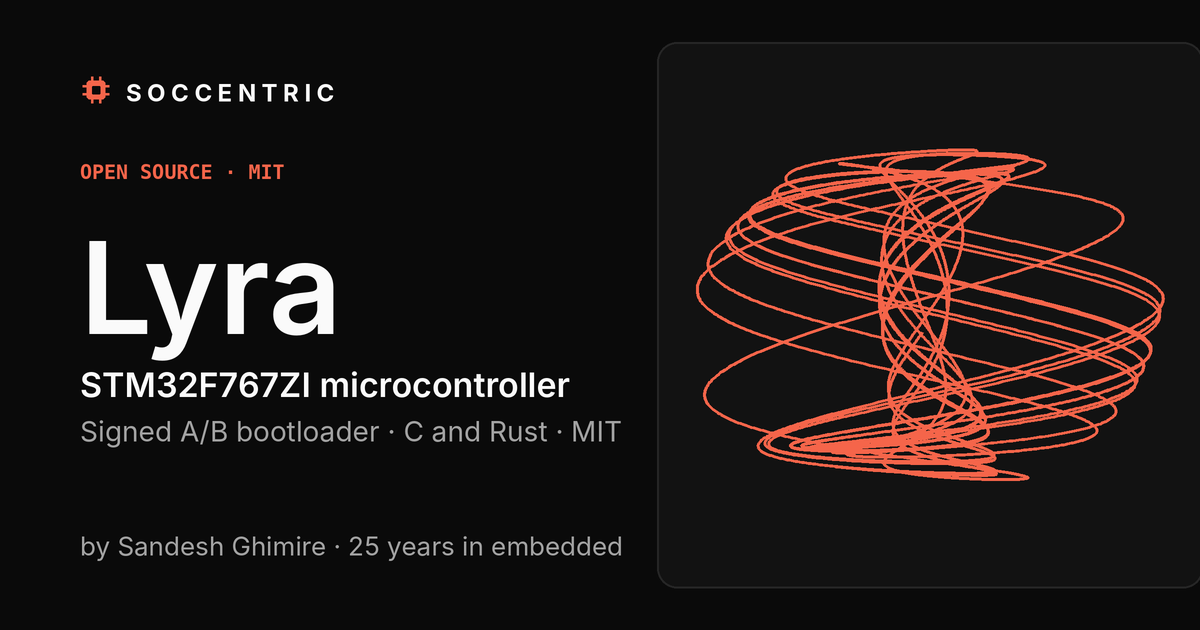
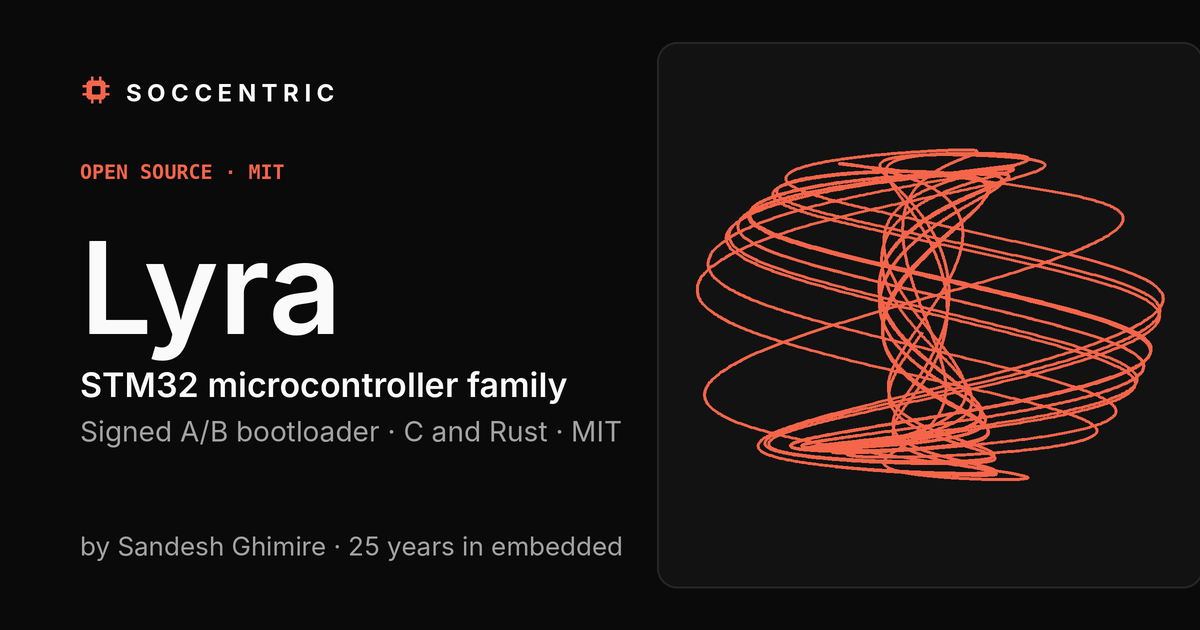
Lyra: STM32 family, STM32F767ZI as reference board

Changed region(s): [[0.1542, 0.573, 0.4933, 0.6333]]

diff --git a/index.html b/index.html
@@ -1,30 +1,30 @@
 <!doctype html>
 <html lang="en"><head><meta charset="utf-8"><meta name="viewport" content="width=device-width, initial-scale=1">
-<title>SoCcentric Lyra · Open-source platform for STM32F767ZI</title><meta name="description" content="Lyra: open-source firmware building blocks for the STM32F767ZI microcontroller, by Sandesh Ghimire. Use them free, or get help taking your product to completion."><meta name="author" content="Sandesh Ghimire">
-<link rel="canonical" href="https://soccentric-lyra.github.io/"><meta property="og:title" content="SoCcentric Lyra · Open-source platform for STM32F767ZI"><meta property="og:description" content="Lyra: open-source firmware building blocks for the STM32F767ZI microcontroller, by Sandesh Ghimire. Use them free, or get help taking your product to completion.">
+<title>SoCcentric Lyra · Open-source platform for STM32 microcontrollers</title><meta name="description" content="Lyra: open-source firmware building blocks for STM32 microcontrollers, by Sandesh Ghimire. Free and MIT licensed."><meta name="author" content="Sandesh Ghimire">
+<link rel="canonical" href="https://soccentric-lyra.github.io/"><meta property="og:title" content="SoCcentric Lyra · Open-source platform for STM32 microcontrollers"><meta property="og:description" content="Lyra: open-source firmware building blocks for STM32 microcontrollers, by Sandesh Ghimire. Free and MIT licensed.">
 <meta property="og:type" content="website"><meta property="og:url" content="https://soccentric-lyra.github.io/"><meta property="og:image" content="https://soccentric-lyra.github.io/assets/og.png"><meta property="og:image:width" content="1200"><meta property="og:image:height" content="630"><meta name="twitter:card" content="summary_large_image"><meta name="twitter:image" content="https://soccentric-lyra.github.io/assets/og.png">
 <meta name="theme-color" content="#0a0a0a"><link rel="preconnect" href="https://api.fontshare.com" crossorigin><link rel="stylesheet" href="https://api.fontshare.com/v2/css?f[]=switzer@400,500,600,700&amp;f[]=sentient@400i&amp;display=swap">
 <script>try{var t=localStorage.getItem("theme");if(t==="dark"||t==="light")document.documentElement.dataset.theme=t}catch(e){}</script><link rel="icon" href="assets/chip.svg" type="image/svg+xml"><link rel="stylesheet" href="style.css?v=4c3048c742"><script type="importmap">{"imports":{"three":"https://cdn.jsdelivr.net/npm/three@0.160.0/build/three.module.min.js","three/addons/":"https://cdn.jsdelivr.net/npm/three@0.160.0/examples/jsm/"}}</script><script type="module" src="hero.js?v=f74a1cc3c1"></script></head>
 <body><a class="skip" href="#main">Skip to content</a><header><div class="wrap"><a class="brand" href="https://soccentric.github.io/" aria-label="SoCcentric home"><svg class="mark" viewBox="0 0 24 24" aria-hidden="true"><path class="pins" d="M9 2v3M15 2v3M9 19v3M15 19v3M2 9h3M2 15h3M19 9h3M19 15h3"/><rect class="pkg" x="5" y="5" width="14" height="14" rx="2.5"/><rect class="die" x="9" y="9" width="6" height="6" rx="1"/></svg><span>SoCcentric</span></a><nav aria-label="Main"><span class="links" id="navlinks"><a href="#why">Why</a><a href="#architecture">Architecture</a><a href="#repos">Repositories</a><a href="#start">Get started</a><a href="#features">Features</a><a href="#contribute">Contribute</a></span><a class="hire" href="#help" aria-label="Work with us"><svg class="ic" viewBox="0 0 24 24" aria-hidden="true"><circle cx="9" cy="8" r="3.2"/><circle cx="17" cy="9" r="2.6"/><path d="M3 19c0-3.3 2.7-5.5 6-5.5s6 2.2 6 5.5"/><path d="M15.5 14c2.9-.3 5.5 1.5 5.5 4.5"/></svg><span>Work with us</span></a><button class="theme" type="button" aria-label="Switch between dark and light theme" title="Dark / light theme"><svg class="ic moon" viewBox="0 0 24 24" aria-hidden="true"><path d="M20 14.5A8 8 0 0 1 9.5 4a8 8 0 1 0 10.5 10.5z"/></svg><svg class="ic sun" viewBox="0 0 24 24" aria-hidden="true"><circle cx="12" cy="12" r="4.2"/><path d="M12 2.5v2.2M12 19.3v2.2M2.5 12h2.2M19.3 12h2.2M5.3 5.3l1.6 1.6M17.1 17.1l1.6 1.6M5.3 18.7l1.6-1.6M17.1 6.9l1.6-1.6"/></svg></button><button class="menu" type="button" aria-label="Open menu" aria-expanded="false" aria-controls="navlinks"><svg class="ic" viewBox="0 0 24 24" aria-hidden="true"><path d="M4 7h16M4 12h16M4 17h16"/></svg></button></nav></div></header>
 <main id="main">
-<div class="hero"><canvas class="hero3d" data-anim="lyra" aria-hidden="true" style="position:absolute;right:0;top:50%;width:640px;height:640px;transform:translateY(-50%);opacity:0;pointer-events:none"></canvas><div class="wrap"><div class="eyebrow">Open-source platform · STM32F767ZI</div><h1>Lyra</h1>
-<p class="lead">Firmware for the STM32F767ZI microcontroller, ready on <em>day one</em>: a signed A/B bootloader, five demo applications in C and Rust, and factory tooling. Free and MIT licensed.</p>
-<div class="chips"><span>MIT licensed</span><span>STM32F767ZI</span><span>10 public repositories</span><span>Bare-metal · FreeRTOS · Zephyr</span></div>
+<div class="hero"><canvas class="hero3d" data-anim="lyra" aria-hidden="true" style="position:absolute;right:0;top:50%;width:640px;height:640px;transform:translateY(-50%);opacity:0;pointer-events:none"></canvas><div class="wrap"><div class="eyebrow">Open-source platform · STM32 family</div><h1>Lyra</h1>
+<p class="lead">Firmware for STM32 microcontrollers, ready on <em>day one</em>: a signed A/B bootloader, five demo applications in C and Rust, and factory tooling. Free and MIT licensed.</p>
+<div class="chips"><span>MIT licensed</span><span>STM32 family</span><span>Reference: STM32F767ZI</span><span>10 public repositories</span><span>Bare-metal · FreeRTOS · Zephyr</span></div>
 <div class="btns"><a class="btn primary" href="#start">Get started</a><a class="btn" href="https://github.com/soccentric-lyra/bootloader">bootloader</a><a class="btn" href="https://github.com/soccentric-lyra">All repositories</a></div>
 <p class="byline">by Sandesh Ghimire · Embedded software and firmware engineer · 25 years</p></div></div>
 <section id="why" class="why"><div class="wrap"><div class="why-grid"><div>
 <h2>Why Lyra <em>exists</em></h2>
 <p>After 25 years in embedded software, the last 10 as a consultant, I kept rebuilding the same foundations on every project: bootloader, secure updates, drivers, RTOS setup and factory tooling. Weeks of work before the real product could even start.</p>
-<p>Lyra is those foundations for the STM32F767ZI microcontroller, built once and reused: a secure bootloader with rollback, working applications on three runtimes and the tools to flash and test boards on the line. It shares its architecture with the other 9 platforms, so what you learn here carries to every other board.</p>
+<p>Lyra is those foundations for STM32 microcontrollers, built once and reused: a secure bootloader with rollback, working applications on three runtimes and the tools to flash and test boards on the line. It shares its architecture with the other 9 platforms, so what you learn here carries to every other board.</p>
 <a class="more" href="https://soccentric.github.io/#story">Read the full story →</a></div>
 <ul class="facts"><li><b>Weeks → days</b><span>to a working, configured base on your board</span></li>
 <li><b>One architecture</b><span>the same repositories and commands on all 10 platforms</span></li>
 <li><b>Free and MIT licensed</b><span>use it, fork it, ship it in your product</span></li></ul></div></div></section>
 <section id="architecture"><div class="wrap"><h2>How it fits <em>together</em></h2><p class="sub">From the bench to the flash map. Hover a box to follow its path; click it to jump to its card.</p>
-<figure class="arch" id="arch"><svg class="arch-svg" viewBox="0 0 1000 520" role="img" aria-labelledby="arch-t arch-d"><title id="arch-t">Lyra architecture</title><desc id="arch-d">Host tools sign and send images over UART to the bootloader, which verifies them and boots one of two application slots, rolling back after failed trial boots.</desc><defs><marker id="ah" viewBox="0 0 10 10" refX="9" refY="5" markerWidth="7" markerHeight="7" orient="auto-start-reverse"><path d="M0 0L10 5L0 10z" class="ah"/></marker><marker id="ah-on" viewBox="0 0 10 10" refX="9" refY="5" markerWidth="7" markerHeight="7" orient="auto-start-reverse"><path d="M0 0L10 5L0 10z" class="ah-on"/></marker></defs><text class="zone" x="40" y="40">HOST AND FACTORY BENCH</text><rect class="device" x="20" y="190" width="960" height="310" rx="6"/><text class="zone" x="40" y="222">STM32F767ZI · 2 MB FLASH</text><g class="edge-g" data-from="gui" data-to="boot"><line class="edge" x1="180" y1="134" x2="180" y2="248" marker-end="url(#ah)"/><text class="edge-t" x="188" y="191">SWD</text></g><g class="edge-g" data-from="tools" data-to="boot"><line class="edge" x1="820" y1="134" x2="300" y2="300" marker-end="url(#ah)"/><text class="edge-t" x="568" y="217">HWLINK / UART</text></g><g class="edge-g" data-from="station" data-to="slotA"><line class="edge" x1="500" y1="134" x2="485" y2="248" marker-end="url(#ah)"/><text class="edge-t" x="500" y="191">factory COM</text></g><g class="edge-g" data-from="boot" data-to="slotA"><line class="edge" x1="300" y1="300" x2="338" y2="300" marker-end="url(#ah)"/></g><g class="edge-g" data-from="boot" data-to="slotB"><line class="edge" x1="300" y1="420" x2="338" y2="420" marker-end="url(#ah)"/></g><g class="edge-g" data-from="slotA" data-to="apps"><line class="edge dash" x1="630" y1="300" x2="668" y2="300"/></g><g class="edge-g" data-from="slotB" data-to="rt"><line class="edge dash" x1="630" y1="420" x2="668" y2="420"/></g><g class="node" data-node="gui"><a href="#c-bootloader-gui"><rect class="box prod" x="40" y="60" width="280" height="74" rx="4"/><rect class="tag prod" x="56" y="80" width="8" height="8" rx="1"/><text class="bt" x="72" y="90">bootloader-gui</text><text class="bs" x="56" y="112">build, sign, flash over SWD</text></a></g><g class="node" data-node="station"><a href="#c-factory-station"><rect class="box fac" x="360" y="60" width="280" height="74" rx="4"/><rect class="tag fac" x="376" y="80" width="8" height="8" rx="1"/><text class="bt" x="392" y="90">factory-station</text><text class="bs" x="376" y="112">blank board → verified unit</text></a></g><g class="node" data-node="tools"><rect class="box prod" x="680" y="60" width="280" height="74" rx="4"/><rect class="tag prod" x="696" y="80" width="8" height="8" rx="1"/><text class="bt" x="712" y="90">mkimage · bootctl</text><text class="bs" x="696" y="112">sign image, update over UART</text></g><g class="node" data-node="boot"><a href="#c-bootloader"><rect class="box prod" x="50" y="250" width="250" height="220" rx="4"/><rect class="tag prod" x="66" y="270" width="8" height="8" rx="1"/><text class="bt" x="82" y="280">bootloader</text><text class="bs" x="66" y="302">~28 KB · ECDSA P-256</text><text class="bs" x="66" y="340">verify before erase</text><text class="bs" x="66" y="364">anti-rollback counter</text><text class="bs" x="66" y="388">trial boot + watchdog</text><text class="bs" x="66" y="412">rollback after 3 fails</text></a></g><g class="node" data-node="slotA"><rect class="box vv" x="340" y="250" width="290" height="100" rx="4"/><rect class="tag vv" x="356" y="270" width="8" height="8" rx="1"/><text class="bt" x="372" y="280">Slot A · 976 KB</text><text class="bs" x="356" y="302">app or factory firmware</text></g><g class="node" data-node="slotB"><rect class="box vv" x="340" y="370" width="290" height="100" rx="4"/><rect class="tag vv" x="356" y="390" width="8" height="8" rx="1"/><text class="bt" x="372" y="400">Slot B · 976 KB</text><text class="bs" x="356" y="422">update lands here</text></g><g class="node" data-node="apps"><a href="#c-app-c-freertos"><rect class="box vv" x="670" y="250" width="290" height="100" rx="4"/><rect class="tag vv" x="686" y="270" width="8" height="8" rx="1"/><text class="bt" x="702" y="280">5 demo applications</text><text class="bs" x="686" y="302">C and Rust</text></a></g><g class="node" data-node="rt"><a href="#c-app-rust-embassy"><rect class="box vv" x="670" y="370" width="290" height="100" rx="4"/><rect class="tag vv" x="686" y="390" width="8" height="8" rx="1"/><text class="bt" x="702" y="400">3 runtimes</text><text class="bs" x="686" y="422">bare-metal · FreeRTOS · Zephyr</text></a></g></svg></figure></div></section>
+<figure class="arch" id="arch"><svg class="arch-svg" viewBox="0 0 1000 520" role="img" aria-labelledby="arch-t arch-d"><title id="arch-t">Lyra architecture</title><desc id="arch-d">Host tools sign and send images over UART to the bootloader, which verifies them and boots one of two application slots, rolling back after failed trial boots.</desc><defs><marker id="ah" viewBox="0 0 10 10" refX="9" refY="5" markerWidth="7" markerHeight="7" orient="auto-start-reverse"><path d="M0 0L10 5L0 10z" class="ah"/></marker><marker id="ah-on" viewBox="0 0 10 10" refX="9" refY="5" markerWidth="7" markerHeight="7" orient="auto-start-reverse"><path d="M0 0L10 5L0 10z" class="ah-on"/></marker></defs><text class="zone" x="40" y="40">HOST AND FACTORY BENCH</text><rect class="device" x="20" y="190" width="960" height="310" rx="6"/><text class="zone" x="40" y="222">STM32 MCU · REFERENCE STM32F767ZI, 2 MB FLASH</text><g class="edge-g" data-from="gui" data-to="boot"><line class="edge" x1="180" y1="134" x2="180" y2="248" marker-end="url(#ah)"/><text class="edge-t" x="188" y="191">SWD</text></g><g class="edge-g" data-from="tools" data-to="boot"><line class="edge" x1="820" y1="134" x2="300" y2="300" marker-end="url(#ah)"/><text class="edge-t" x="568" y="217">HWLINK / UART</text></g><g class="edge-g" data-from="station" data-to="slotA"><line class="edge" x1="500" y1="134" x2="485" y2="248" marker-end="url(#ah)"/><text class="edge-t" x="500" y="191">factory COM</text></g><g class="edge-g" data-from="boot" data-to="slotA"><line class="edge" x1="300" y1="300" x2="338" y2="300" marker-end="url(#ah)"/></g><g class="edge-g" data-from="boot" data-to="slotB"><line class="edge" x1="300" y1="420" x2="338" y2="420" marker-end="url(#ah)"/></g><g class="edge-g" data-from="slotA" data-to="apps"><line class="edge dash" x1="630" y1="300" x2="668" y2="300"/></g><g class="edge-g" data-from="slotB" data-to="rt"><line class="edge dash" x1="630" y1="420" x2="668" y2="420"/></g><g class="node" data-node="gui"><a href="#c-bootloader-gui"><rect class="box prod" x="40" y="60" width="280" height="74" rx="4"/><rect class="tag prod" x="56" y="80" width="8" height="8" rx="1"/><text class="bt" x="72" y="90">bootloader-gui</text><text class="bs" x="56" y="112">build, sign, flash over SWD</text></a></g><g class="node" data-node="station"><a href="#c-factory-station"><rect class="box fac" x="360" y="60" width="280" height="74" rx="4"/><rect class="tag fac" x="376" y="80" width="8" height="8" rx="1"/><text class="bt" x="392" y="90">factory-station</text><text class="bs" x="376" y="112">blank board → verified unit</text></a></g><g class="node" data-node="tools"><rect class="box prod" x="680" y="60" width="280" height="74" rx="4"/><rect class="tag prod" x="696" y="80" width="8" height="8" rx="1"/><text class="bt" x="712" y="90">mkimage · bootctl</text><text class="bs" x="696" y="112">sign image, update over UART</text></g><g class="node" data-node="boot"><a href="#c-bootloader"><rect class="box prod" x="50" y="250" width="250" height="220" rx="4"/><rect class="tag prod" x="66" y="270" width="8" height="8" rx="1"/><text class="bt" x="82" y="280">bootloader</text><text class="bs" x="66" y="302">~28 KB · ECDSA P-256</text><text class="bs" x="66" y="340">verify before erase</text><text class="bs" x="66" y="364">anti-rollback counter</text><text class="bs" x="66" y="388">trial boot + watchdog</text><text class="bs" x="66" y="412">rollback after 3 fails</text></a></g><g class="node" data-node="slotA"><rect class="box vv" x="340" y="250" width="290" height="100" rx="4"/><rect class="tag vv" x="356" y="270" width="8" height="8" rx="1"/><text class="bt" x="372" y="280">Slot A · 976 KB</text><text class="bs" x="356" y="302">app or factory firmware</text></g><g class="node" data-node="slotB"><rect class="box vv" x="340" y="370" width="290" height="100" rx="4"/><rect class="tag vv" x="356" y="390" width="8" height="8" rx="1"/><text class="bt" x="372" y="400">Slot B · 976 KB</text><text class="bs" x="356" y="422">update lands here</text></g><g class="node" data-node="apps"><a href="#c-app-c-freertos"><rect class="box vv" x="670" y="250" width="290" height="100" rx="4"/><rect class="tag vv" x="686" y="270" width="8" height="8" rx="1"/><text class="bt" x="702" y="280">5 demo applications</text><text class="bs" x="686" y="302">C and Rust</text></a></g><g class="node" data-node="rt"><a href="#c-app-rust-embassy"><rect class="box vv" x="670" y="370" width="290" height="100" rx="4"/><rect class="tag vv" x="686" y="390" width="8" height="8" rx="1"/><text class="bt" x="702" y="400">3 runtimes</text><text class="bs" x="686" y="422">bare-metal · FreeRTOS · Zephyr</text></a></g></svg></figure></div></section>
 <section id="repos"><div class="wrap"><h2>Repositories</h2><p class="sub">Public repositories of this platform, in three groups.</p>
 <h3 id="prod" class="cat-prod">Bootloader</h3><p class="sub">The A/B bootloader that every Lyra application runs under, and the desktop tool that builds and flashes it.</p><table><thead><tr><th>Repository</th><th>Role</th><th>What it is</th></tr></thead><tbody><tr><td class="n"><a href="#c-bootloader">bootloader</a><span class="rmeta">C · updated 24 Nov 2026</span></td><td>Bootloader</td><td>Bare-metal A/B bootloader</td></tr><tr><td class="n"><a href="#c-bootloader-gui">bootloader-gui</a><span class="rmeta">Python · updated 24 Nov 2026</span></td><td>Flasher</td><td>BOOT Flasher desktop app</td></tr></tbody></table><h3 id="vv" class="cat-vv">Applications</h3><p class="sub">Five demo applications with the same behavior, written for different languages and RTOS stacks, so you can compare them on one board.</p><table><thead><tr><th>Repository</th><th>Role</th><th>What it is</th></tr></thead><tbody><tr><td class="n"><a href="#c-app-c-freertos">app-c-freertos</a><span class="rmeta">C · updated 25 Nov 2026</span></td><td>Demo, C</td><td>C demo on FreeRTOS</td></tr><tr><td class="n"><a href="#c-app-c-zephyr">app-c-zephyr</a><span class="rmeta">C · updated 25 Nov 2026</span></td><td>Demo, C</td><td>C demo on Zephyr</td></tr><tr><td class="n"><a href="#c-app-rust-embassy">app-rust-embassy</a><span class="rmeta">Rust · updated 25 Nov 2026</span></td><td>Demo, Rust</td><td>Rust demo on Embassy</td></tr><tr><td class="n"><a href="#c-app-rust-freertos">app-rust-freertos</a><span class="rmeta">Rust · updated 25 Nov 2026</span></td><td>Demo, Rust</td><td>Rust demo on FreeRTOS</td></tr><tr><td class="n"><a href="#c-app-rust-zephyr">app-rust-zephyr</a><span class="rmeta">Rust · updated 25 Nov 2026</span></td><td>Demo, Rust</td><td>Rust demo on Zephyr</td></tr></tbody></table><h3 id="fac" class="cat-fac">Factory</h3><p class="sub">Tools that take a blank board to a verified unit.</p><table><thead><tr><th>Repository</th><th>Role</th><th>What it is</th></tr></thead><tbody><tr><td class="n"><a href="#c-factory-firmware">factory-firmware</a><span class="rmeta">C · updated 24 Nov 2026</span></td><td>Factory firmware</td><td>FreeRTOS factory firmware</td></tr><tr><td class="n"><a href="#c-factory-station">factory-station</a><span class="rmeta">Python · updated 24 Nov 2026</span></td><td>Factory station</td><td>HWVAL Factory bench tool</td></tr><tr><td class="n"><a href="https://github.com/soccentric-lyra/factory-data-gui">factory-data-gui</a><span class="rmeta">Python · updated 24 Nov 2026</span></td><td>Retired</td><td>Merged into factory-station</td></tr></tbody></table></div></section>
-<section id="start"><div class="wrap"><h2>Get <em>started</em></h2><p class="sub">The bootloader is the best place to begin. It builds in a container and flashes over SWD with an ST-LINK.</p>
+<section id="start"><div class="wrap"><h2>Get <em>started</em></h2><p class="sub">The bootloader is the best place to begin. The reference build targets the STM32F767ZI; it builds in a container and flashes over SWD with an ST-LINK.</p>
 <div class="code"><button class="copy" type="button" aria-label="Copy commands">Copy</button><pre><code>git clone https://github.com/soccentric-lyra/bootloader.git
 cd bootloader
 scripts/build.sh     # build inside the stm32-dev container
@@ -37,10 +37,10 @@ make test            # host, Python and contract tests</code></pre></div>
 <p>Open an issue or a pull request in the repository you want to change. Pull requests go to its default branch, <code>master</code>.</p>
 <h2 id="license" class="mt">License</h2><p>MIT. Third-party software that the firmware builds against keeps its own licenses.</p></div></section>
 <section id="help" class="help"><div class="wrap"><div class="help-box">
-<div class="eyebrow">Need a hand?</div><h2>Building a product on <em>STM32F767ZI</em>?</h2>
+<div class="eyebrow">Need a hand?</div><h2>Building a product on <em>STM32</em>?</h2>
 <p class="lead">I can set up Lyra on your hardware, adapt it to your product and help take the project to completion. You work directly with the engineer who wrote it.</p>
 <ul class="svc"><li>Bring-up on your own STM32 board</li><li>Secure boot and a field-update path for your product</li><li>Drivers, RTOS integration and factory tooling</li><li>Hands-on through to delivery, or a focused review of your firmware</li></ul>
-<div class="btns"><a class="btn primary" href="mailto:sandesh@soccentric.com?subject=Help%20with%20Lyra%20%28STM32F767ZI%29">Talk to me about Lyra</a><a class="btn" href="mailto:sandesh@soccentric.com?subject=Demo%20request%3A%20Lyra%20%28STM32F767ZI%29">Request a demo</a></div>
+<div class="btns"><a class="btn primary" href="mailto:sandesh@soccentric.com?subject=Help%20with%20Lyra%20%28STM32%29">Talk to me about Lyra</a><a class="btn" href="mailto:sandesh@soccentric.com?subject=Demo%20request%3A%20Lyra%20%28STM32%29">Request a demo</a></div>
 <p class="who">Sandesh Ghimire · Embedded software and firmware engineer · 25 years</p></div></div></section>
 </main>
 <footer><div class="wrap"><strong>Other platforms</strong><div class="others"><a href="https://soccentric-acadia.github.io/">Acadia</a><a href="https://soccentric-arches.github.io/">Arches</a><a href="https://soccentric-joshua.github.io/">Joshua</a><a href="https://soccentric-pinnacle.github.io/">Pinnacle</a><a href="https://soccentric-sequoia.github.io/">Sequoia</a><a href="https://soccentric-zion.github.io/">Zion</a><a href="https://soccentric-orion.github.io/">Orion</a><a href="https://soccentric-polaris.github.io/">Polaris</a><a href="https://soccentric-vela.github.io/">Vela</a><a href="https://soccentric.github.io/">All platforms</a></div><div class="me">Built and maintained by <b>Sandesh Ghimire</b>, embedded software and firmware engineer. <a href="mailto:sandesh@soccentric.com?subject=Hello%20from%20the%20SoCcentric%20site">sandesh@soccentric.com</a></div><div>© 2026 SoCcentric · <a href="https://soccentric.com">soccentric.com</a> · MIT licensed</div></div></footer><script>document.querySelector("button.theme")?.addEventListener("click",function(){
